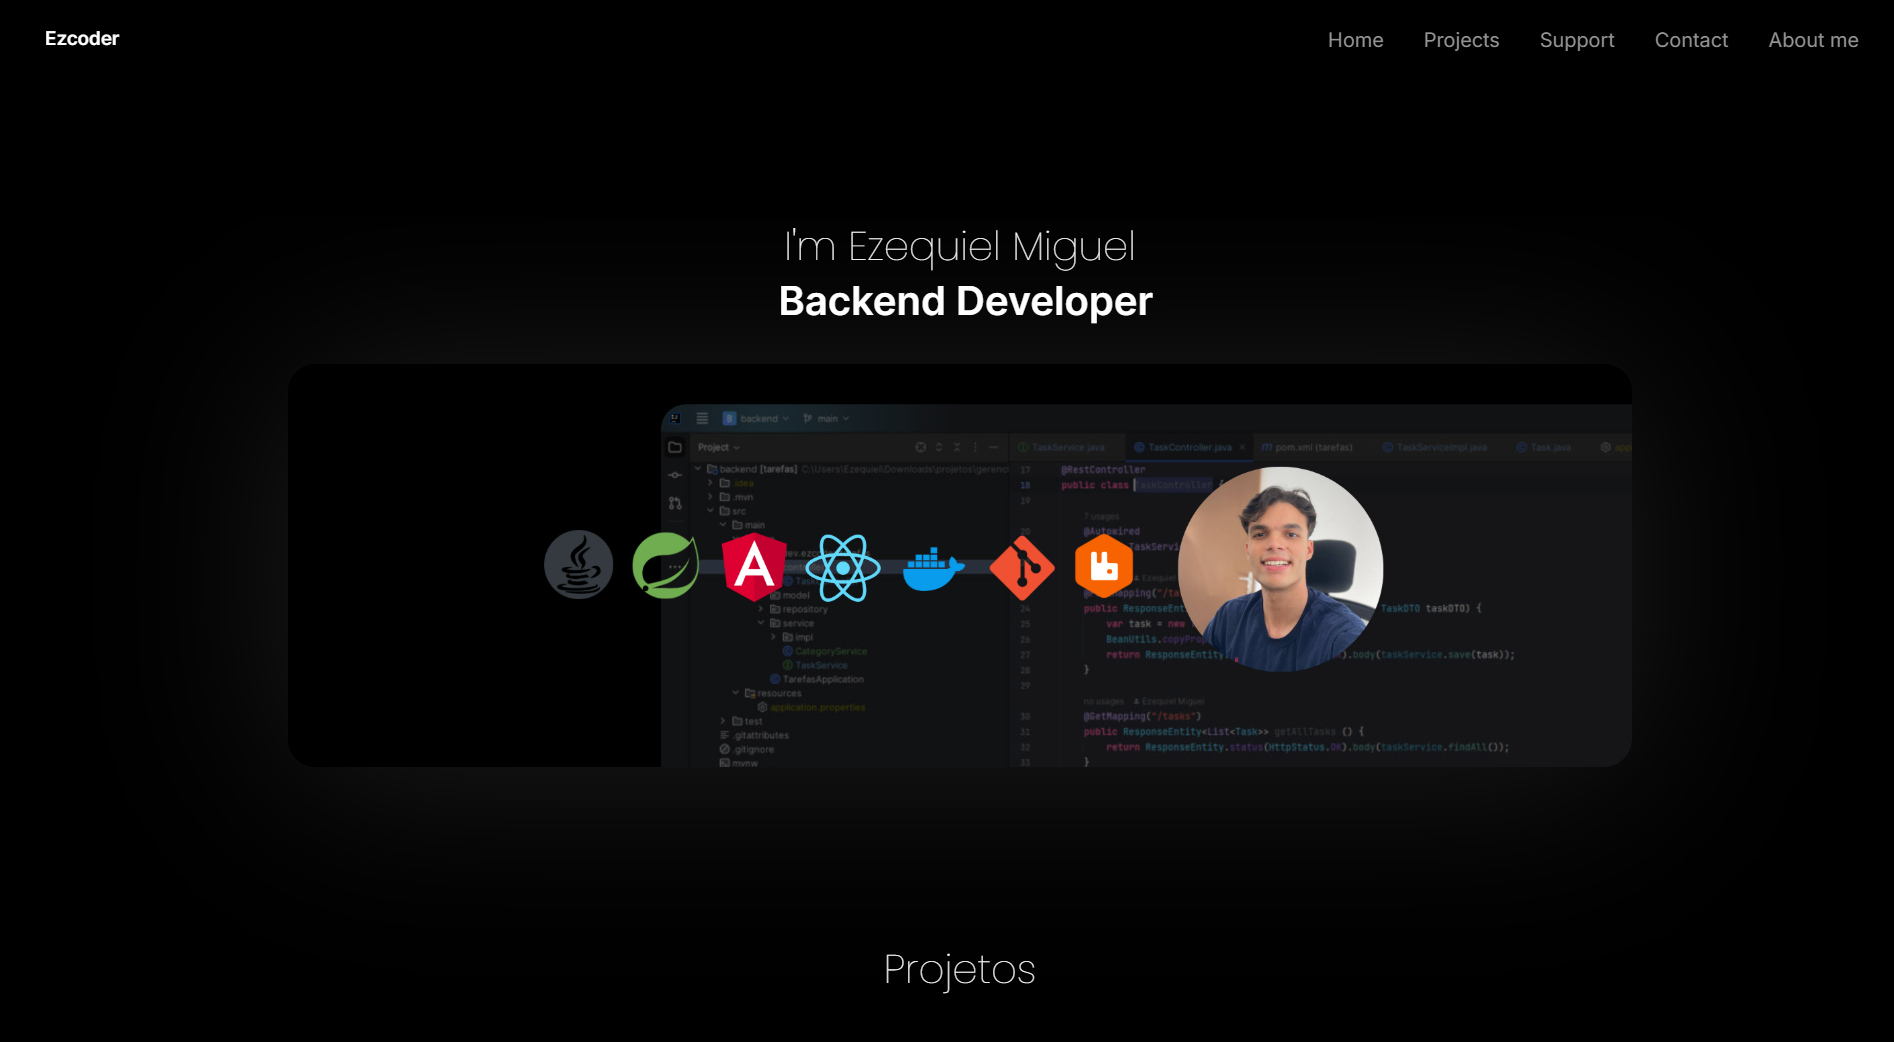
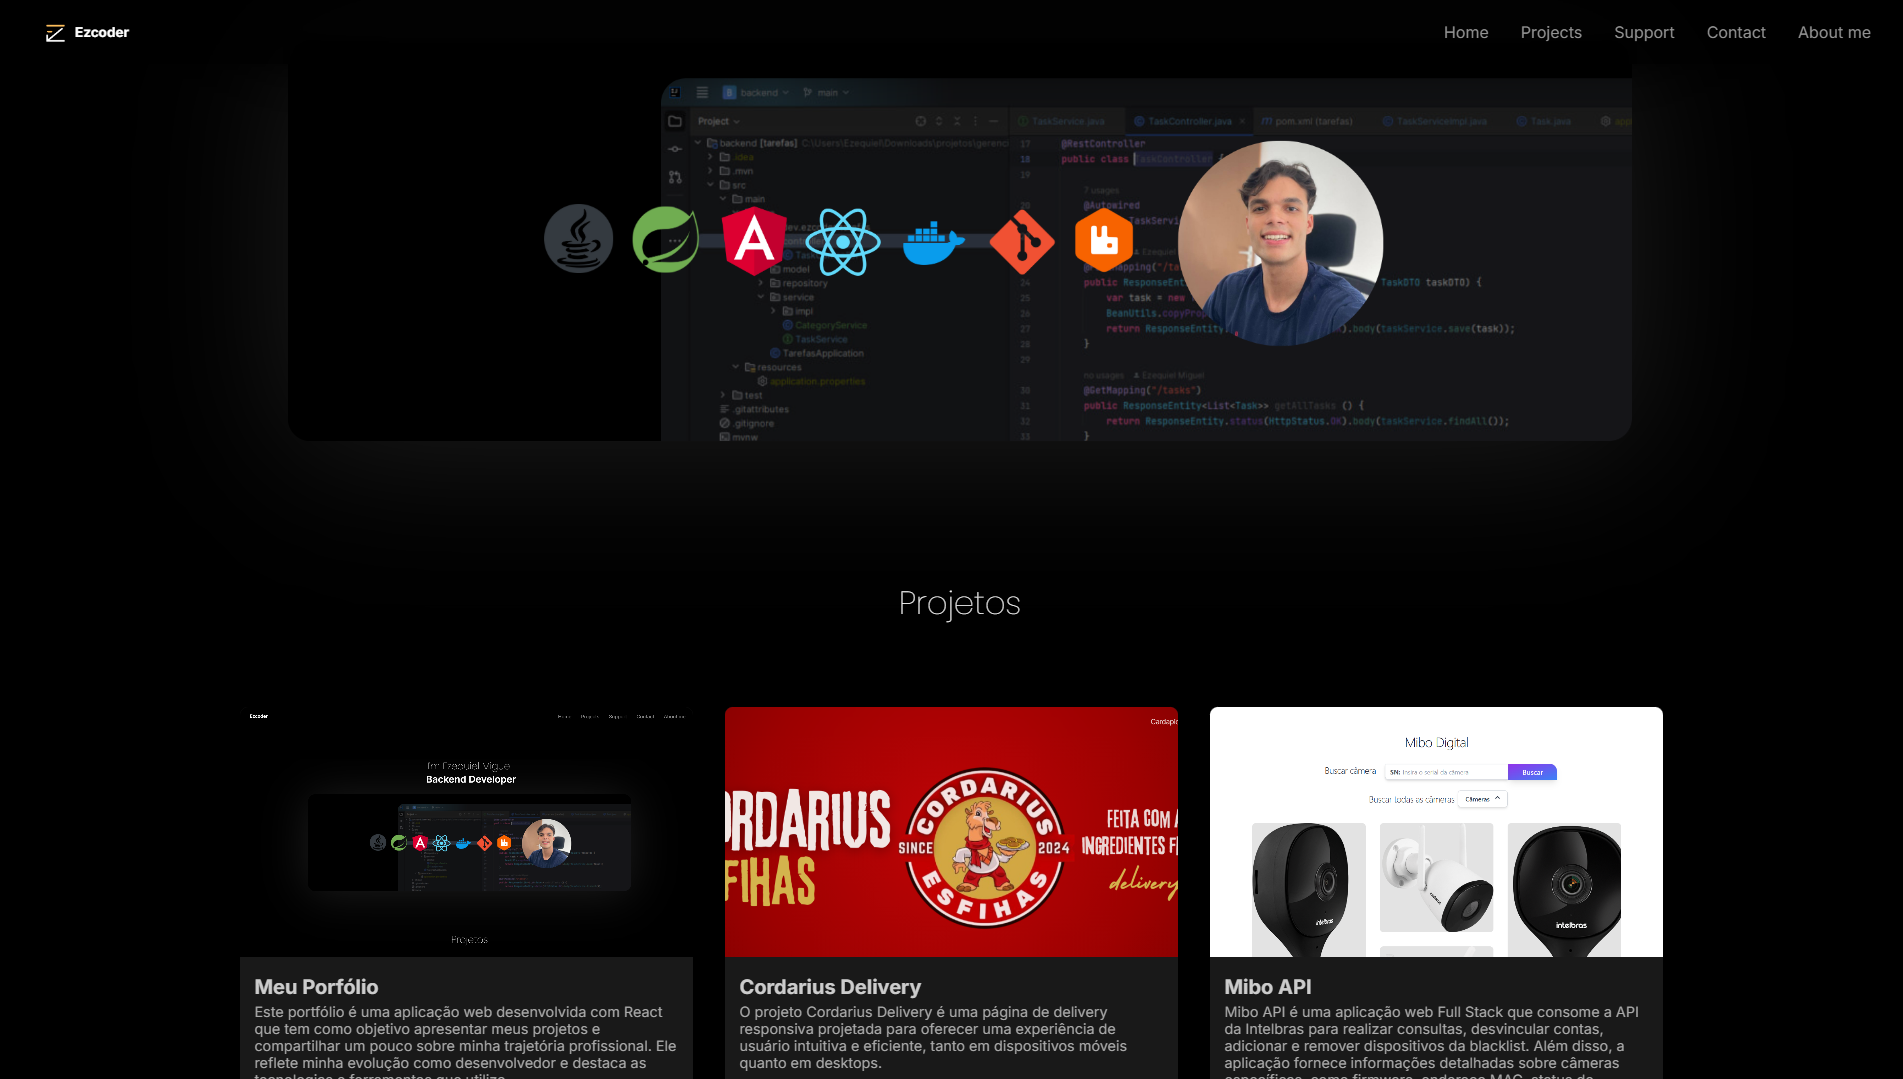
style: upgrade no card de projetos

diff --git a/portifolio-frontend/src/components/projects/Project.css b/portifolio-frontend/src/components/projects/Project.css
@@ -14,15 +14,15 @@
   .projects-grid {
     display: grid;
     grid-template-columns: repeat(auto-fit, minmax(300px, 1fr));
-    gap: 1.5rem;
-    margin-top: 2rem;
+    gap: 0rem;
+    margin: 2rem 12rem;
   }
   
   .project-card {
+    margin: 1rem 1rem;
     background: #191919;
-    border-radius: 0.8rem;
+    border-radius: 0.5rem;
     box-shadow: rgba(0, 0, 0, 0.1) 0px 4px 6px 0px;
-    overflow: hidden;
     transition: transform 0.3s ease, box-shadow 0.3s ease;
   }
   
@@ -33,8 +33,10 @@
   
   .project-image {
     width: 100%;
-    height: 300px;
+    height: 250px;
+    border-radius: 0.5rem 0.5rem 0rem 0rem;
     object-fit: cover;
+    box-shadow: rgba(113, 113, 113, 0.259) 0px 7px 150px 0px;
   }
   
   .project-content {
@@ -44,15 +46,15 @@
   .project-title {
     font-family: 'inter', sans-serif;
     font-size: 1.25rem;
-    color: #bbb;
+    color: #ccc;
     margin-bottom: 0.2rem;
   }
   
   .project-description {
     font-family: 'inter', sans-serif;
     font-size: 0.9rem;
-    color: #999;
-    margin-bottom: 0.9rem;
+    color: #aaa;
+    margin-bottom: 0.6rem;
   }
   
   .project-technologies {
@@ -73,3 +75,88 @@
     transform: scale(1.2);
   }
   
+  @media (max-width: 1280px) {
+    .projects-section {
+      margin-top: 4rem;
+      padding: 1rem 20rem;
+    }
+
+    .project-image {
+      width: 100%;
+      height: 300px;
+      object-fit: cover;
+      box-shadow: rgba(113, 113, 113, 0.259) 0px 7px 150px 0px;
+    }
+    
+    .projects-grid {
+      grid-template-columns: 1fr;
+      padding: 0rem;
+      margin: 0rem;
+    }
+
+  }
+
+  @media (max-width: 1024px) {
+    .projects-section {
+      margin-top: 4rem;
+      padding: 1rem 12rem;
+    }
+
+    .project-image {
+      width: 100%;
+      height: 250px;
+      object-fit: cover;
+      box-shadow: rgba(113, 113, 113, 0.259) 0px 7px 150px 0px;
+    }
+    
+
+    .projects-grid {
+      grid-template-columns: repeat(1, 1fr);
+      padding: 0;
+      margin: 0;
+    }
+  }
+  
+  @media (max-width: 768px) {
+
+    .projects-section {
+      margin-top: 4rem;
+      padding: 1rem 6rem;
+    }
+
+    .project-image {
+      width: 100%;
+      height: 250px;
+      object-fit: cover;
+      box-shadow: rgba(113, 113, 113, 0.259) 0px 7px 150px 0px;
+    }
+    
+
+    .projects-grid {
+      grid-template-columns: repeat(1, 1fr);
+      padding: 0;
+      margin: 0;
+    }
+  }
+  
+  @media (max-width: 480px) {
+
+    .projects-section {
+      margin-top: 4rem;
+      padding: 0.1rem;
+    }
+
+    .project-image {
+      width: 100%;
+      height: 200px;
+      object-fit: cover;
+      box-shadow: rgba(113, 113, 113, 0.259) 0px 7px 150px 0px;
+    }
+    
+    .projects-grid {
+      grid-template-columns: 1fr;
+      padding: 0rem;
+      margin: 0rem;
+    }
+
+  }

diff --git a/portifolio-frontend/src/components/hero/Hero.css b/portifolio-frontend/src/components/hero/Hero.css
@@ -41,10 +41,6 @@
     font-weight: 100;
 }
 
-@media screen and (max-width: 768px) {
-
-}
-
 
 @media screen and (max-width: 480px) {
 
